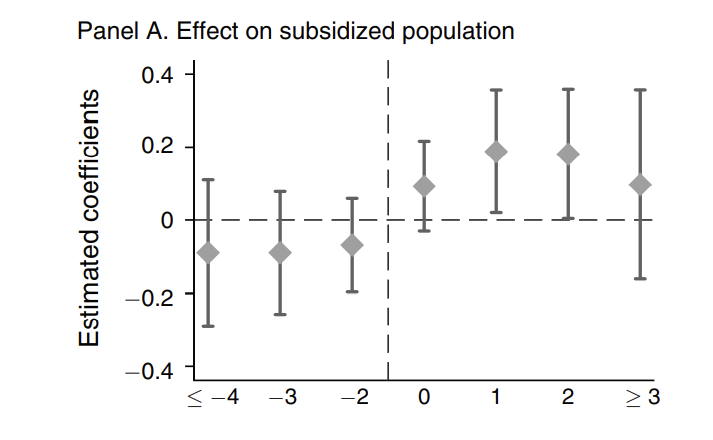
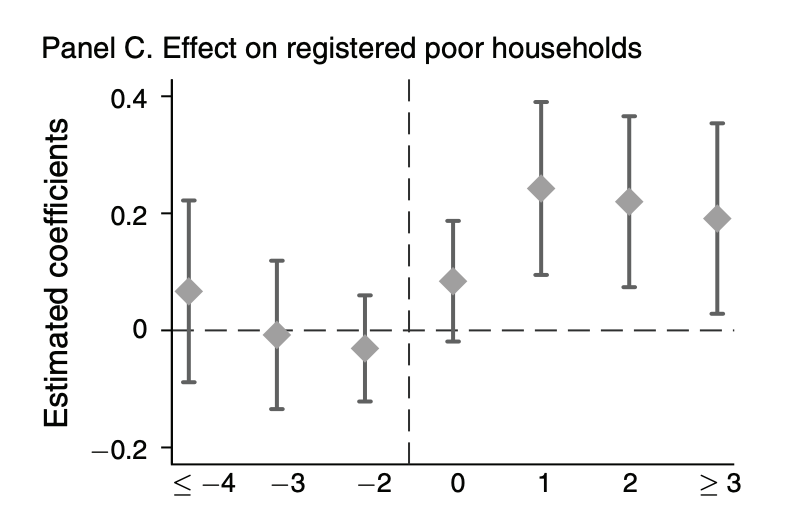
Changed He and Wang example to Fig 2c

Changed region(s): [[0.0309, 0.1477, 0.9257, 0.975], [0.0309, 0.0295, 0.8022, 0.1477], [0.7405, 0.1773, 0.8331, 0.5614]]

diff --git a/README.md b/README.md
@@ -10,7 +10,7 @@
 The pretrends package provides tools for power calculations for
 pre-trends tests, and visualization of possible violations of parallel
 trends. Calculations are based on [Roth
-(2020)](https://jonathandroth.github.io/assets/files/roth_pretrends_testing.pdf).
+(Forthcoming)](https://jonathandroth.github.io/assets/files/roth_pretrends_testing.pdf).
 (Please cite the paper if you enjoy the package!)
 
 If you’re not an R user, you may also be interested in the associated
@@ -30,7 +30,7 @@ devtools::install_github("jonathandroth/pretrends")
 
 We illustrate how to use the package with an application to [He and Wang
 (2017)](https://www.aeaweb.org/articles?id=10.1257/app.20160079). The
-analysis will be based on the event-study in Figure 2A, which looks like
+analysis will be based on the event-study in Figure 2C, which looks like
 this:
 
 ![He and Wang Plot.](man/figures/HeAndWang.png)
@@ -60,14 +60,14 @@ sigma <- pretrends::HeAndWangResults$sigma
 tVec <- pretrends::HeAndWangResults$tVec
 referencePeriod <- -1 #This is the omitted period in the regression
 data.frame(t = tVec, beta = beta)
-#>    t        beta
-#> 1 -4 -0.08942866
-#> 2 -3 -0.08939153
-#> 3 -2 -0.06860359
-#> 4  0  0.09308024
-#> 5  1  0.18774731
-#> 6  2  0.18067996
-#> 7  3  0.09727819
+#>    t         beta
+#> 1 -4  0.066703148
+#> 2 -3 -0.007701792
+#> 3 -2 -0.030769054
+#> 4  0  0.084030658
+#> 5  1  0.242441818
+#> 6  2  0.219878986
+#> 7  3  0.191092536
 ```
 
 ### Using the package
@@ -86,7 +86,7 @@ slope_for_power(sigma = sigma,
                 tVec = tVec,
                 referencePeriod = referencePeriod)
 slope50
-#> [1] 0.06993189
+#> [1] 0.0520569
 ```
 
 The package’s second (and main) function is *pretrends()*, which enables
@@ -117,21 +117,21 @@ Next, *df\_power* displays several useful statistics about the power of
 the pre-test against the hypothesized trend:
 
 -   **Power** The probability that we would find a significant pre-trend
-    under the hypothesized pre-trend. (This is 0.50 by construction in
-    our example).
+    under the hypothesized pre-trend. (This is 0.50, up to numerical
+    precision error, by construction in our example).
 
 -   **Bayes Factor** The ratio of the probability of ‘’passing’’ the
     pre-test under the hypothesized trend relative to under parallel
     trends.
 
 -   **Likelihood Ratio** The ratio of the likelihood of the observed
-    coefficients under the hypothesized trend relative to under
-    pararallel trends.
+    coefficients under the hypothesized trend relative to under parallel
+    trends.
 
 ``` r
 pretrendsResults$df_power
 #>       Power Bayes.Factor Likelihood.Ratio
-#> 1 0.5000274    0.5666286        0.8585905
+#> 1 0.4999383    0.5692008        0.1057765
 ```
 
 Next, *df\_eventplot* contains the data used to make the event-plot. It
@@ -141,15 +141,15 @@ hypothesized trend.
 
 ``` r
 pretrendsResults$df_eventplot
-#>    t     betahat   deltatrue         se meanAfterPretesting
-#> 1 -4 -0.08942866 -0.20979566 0.12228981         -0.12251641
-#> 2 -3 -0.08939153 -0.13986378 0.10185069         -0.07516523
-#> 3 -2 -0.06860359 -0.06993189 0.07761490         -0.03061148
-#> 4 -1  0.00000000  0.00000000 0.00000000          0.00000000
-#> 5  0  0.09308024  0.06993189 0.07494899          0.09019404
-#> 6  1  0.18774731  0.13986378 0.10177085          0.16451411
-#> 7  2  0.18067996  0.20979566 0.10727871          0.23000126
-#> 8  3  0.09727819  0.27972755 0.15696300          0.29197723
+#>    t      betahat  deltatrue         se meanAfterPretesting
+#> 1 -4  0.066703148 -0.1561707 0.09437463         -0.09229763
+#> 2 -3 -0.007701792 -0.1041138 0.07705139         -0.05554763
+#> 3 -2 -0.030769054 -0.0520569 0.05512372         -0.02790685
+#> 4 -1  0.000000000  0.0000000 0.00000000          0.00000000
+#> 5  0  0.084030658  0.0520569 0.06264775          0.06489968
+#> 6  1  0.242441818  0.1041138 0.08981034          0.12084228
+#> 7  2  0.219878986  0.1561707 0.08877826          0.16945912
+#> 8  3  0.191092536  0.2082276 0.09893648          0.22453004
 ```
 
 Finally, the plot event\_plot\_pretest adds the *meanAfterPretesting* to
@@ -163,15 +163,24 @@ pretrendsResults$event_plot_pretest
 
 Although our example has focused on a linear violation of parallel
 trends, the package allows the user to input an arbitrary non-linear
-hypothesized trend. For instance, here is the event-plot from a
-quadratic trend.
+hypothesized trend. For instance, here is the event-plot and power
+analysis from a quadratic trend.
 
 ``` r
+  quadraticPretrend <-
   pretrends(betahat = beta, 
             sigma = sigma, 
             tVec = tVec, 
             referencePeriod = referencePeriod,
-            deltatrue = -0.05 * (tVec - referencePeriod)^2)$event_plot_pretest
+            deltatrue = 0.024 * (tVec - referencePeriod)^2)
+
+quadraticPretrend$event_plot_pretest
 ```
 
 <img src="man/figures/README-unnamed-chunk-11-1.png" width="100%" />
+
+``` r
+quadraticPretrend$df_power
+#>       Power Bayes.Factor Likelihood.Ratio
+#> 1 0.6623579     0.384253        0.4332635
+```
